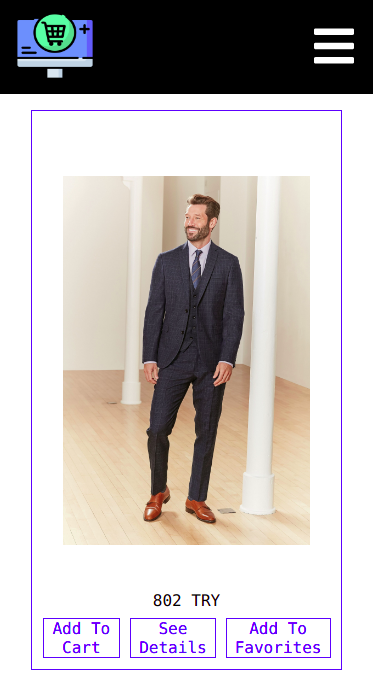
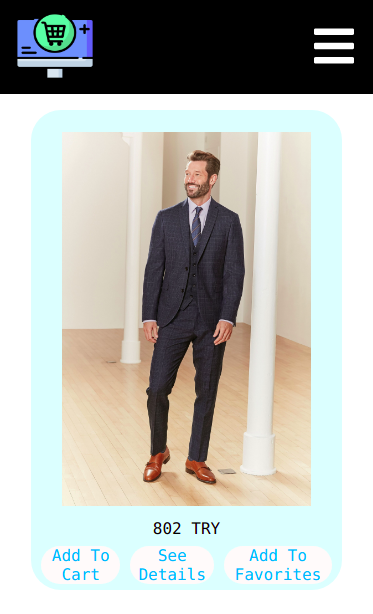
change styling design

diff --git a/src/components/DetailItem.js b/src/components/DetailItem.js
@@ -69,7 +69,8 @@ const DetailProductBox = styled.div`
   justify-content: space-evenly ;
   align-items: center;
   flex-direction: row;
-  border: blue solid 2px;
+  background-color: lightcyan;
+  border-radius: 4rem;
 
  
   @media screen and (max-width:650px){
@@ -77,6 +78,8 @@ const DetailProductBox = styled.div`
   }
   @media screen and (max-width:650px){
     height: 85vh;
+    border-radius: 1rem;
+    margin: 0;
   }
 `;
 const CartProductImage = styled.img`
@@ -116,8 +119,8 @@ const DetailInfoProduct = styled.text`
   @media screen and (max-width:650px) {
     padding: 0 1rem;  font-size: 1rem;
   }
-  @media screen and (max-width:650px) {
-    padding: 0 1rem;  font-size: 1rem;
+  @media screen and (max-width:400px) {
+    font-size: 0.75rem;
   }
 `;
 const DetailProductBar = styled.div`
@@ -128,12 +131,15 @@ const DetailProductBar = styled.div`
   @media screen and (max-width:1000px) and (min-width: 650px){
     flex-direction: column;
   }
+
 `;
 const InfoBar = styled.div`
   display: flex;
   justify-content: space-between;
   align-items: center;
   flex-direction: column;
+
+ 
 `;
 const BackHome = styled(Link)`
  
@@ -149,13 +155,14 @@ const DetailInfoButton = styled.text`
   font-size: 1.5rem;
   font-family: "Helvetica Neue",monospace;
   justify-content: space-between;
-  border: blue 1px solid;
-  color: blue;
+  background-color: snow;
+  color: deepskyblue;
+  border-radius:10rem;
   :hover{
     transition: 0.1s;
-    color: deeppink;
-    border-color: deeppink;
-    cursor: ${({ link }) => (link ? 'pointer' : 'default')};
+    color: blue;
+    cursor: pointer;
+    background-color: #5cf0ff;
   }
   @media screen and (max-width:1000px){
     font-size: 1.5rem;
@@ -163,7 +170,7 @@ const DetailInfoButton = styled.text`
   @media screen and (max-width:650px) {
     padding: 0 1rem;  font-size: 1rem;
   }
-  @media screen and (max-width:650px) {
-    padding: 0 1rem;  font-size: 1rem;
+  @media screen and (max-width:400px) {
+    padding: 0 1rem;  font-size: 0.75rem;
   }
 `;

diff --git a/src/components/ProductItem.js b/src/components/ProductItem.js
@@ -50,8 +50,8 @@ const ProductCart = styled.div`
   justify-content: center;
   align-items: center;
   flex-direction: column;
-
-  border: 1.5px solid ${({favorite}) => favorite ? `deeppink` : `blue`};
+  border-radius: 30px;
+  background-color: ${({favorite}) => favorite ? `deepskyblue`: `lightcyan` };
   color: deepskyblue;
 `;
 const ProductImage = styled.img`
@@ -71,14 +71,15 @@ const InfoProduct = styled.text`
   font-size: 20px;
   font-family: "Helvetica Neue",monospace;
   justify-content: space-between;
-  border: blue 1px solid;
-  color: blue;
+  background-color: snow;
+  margin-bottom:5px;
+  border-radius:10rem;
+  
   :hover{
-    transition: 0.2s;
-    color: deeppink;
+    transition: 0.1s;
+    color: blue;
     cursor: pointer;
-    border: deeppink 1px solid;
-
+    background-color: #5cf0ff;
   }
   @media screen and (max-width: 1300px){
     font-size: 1rem;
@@ -106,28 +107,25 @@ const ProductPrice = styled.text`
   }
 `;
 const ShowingDetails = styled(Link)`
-  color: blue;
   display: flex;
   padding: 0.5rem;
-  margin: 0px 10px;
+  margin: 0 10px 5px 10px;
   font-size: 20px;
   font-family: "Helvetica Neue",monospace;
   justify-content: space-between;
-  border: blue 1px solid;
-  
-
+  background-color: snow;
+  border-radius:10rem;
+  color: deepskyblue;
   
   :hover{
-    transition: 0.2s;
-    color: deeppink;
+    transition: 0.1s;
+    color: blue;
     cursor: pointer;
-    border: deeppink 1px solid;
-  } /* blue colors for links too */
+    background-color: #5cf0ff;
+  }
   text-decoration: inherit; /* no underline */
   @media screen and (max-width: 1300px){
     font-size: 1rem;
     padding: 0 0.5rem;
   }
-  border: blue 1px solid;
-
 `;

diff --git a/src/components/NavBar.js b/src/components/NavBar.js
@@ -29,9 +29,10 @@ const NavBar = () => {
       </NavMenu>
 
       <NavLink to="/card" active="true">
-        <ProductCardText>
-          {productsInCard.length !== 0 ? `Total Payment :  ${calculateTotalPayment()}` : null}
-        </ProductCardText>
+
+          {productsInCard.length !== 0 ? <ProductCardText>
+              {`Total Payment :  ${calculateTotalPayment()} TRY`}
+          </ProductCardText> : null}
         <img alt="logo" src={shoppingCart} width="80px" height="80%" />
 
       </NavLink>
@@ -89,16 +90,25 @@ const Bars = styled(FaBars)`
 `;
 const ProductCardText = styled.h1`
     font-size: 24px;
-    color: red;
+    color: royalblue;
     padding: 1rem;
+  
   text-align: center;
   align-items: center;
   transition: 2s;
+  margin-right: 10px; 
   animation-name: example;
-  animation-duration: 5s;
+  animation-duration: 2s;
   cursor: default;
+  border-radius: 10rem;
+  background-color: lightblue;
   @keyframes example {
-    from {color: white;}
-    to {color: red;}
+    from {color: red;}
+    to {color: royalblue;}
+  }
+  @media screen and (max-width: 1500px){
+    font-size: 15px;
+    padding: 0.2rem;
+    width: 6rem;
   }
 `;

diff --git a/src/components/CardItem.js b/src/components/CardItem.js
@@ -90,7 +90,8 @@ const CardBox = styled.div`
   justify-content: space-between;
   align-items: center;
   flex-direction: row;
-  border: blue solid 2px;
+  background-color: lightcyan;
+  border-radius: 4rem;
   margin: 20px 0px;
   @media screen and (max-width: 425px){
     height: 20rem;
@@ -178,16 +179,21 @@ const ShowDetails = styled(Link)`
   padding: 1rem 1rem;
   font-size: 20px;
   font-family: "Fira Code Medium",monospace;
-  color: red;
-  border: red solid 1px;
   margin: 10px;
+  background-color: lightpink;
+  
   &.active {
     color:aquamarine ;
 
   }
-  :hover {
+  border-radius:10rem;
+  color: black;
+
+  :hover{
+    transition: 0.1s;
     color: blue;
-    border-color: blue;
+    cursor: pointer;
+    background-color: #5cf0ff;
   }
   transition: all 0.2s ease-in-out;
   @media screen and (min-width: 600px){

diff --git a/src/pages/ShoppingCard.js b/src/pages/ShoppingCard.js
@@ -56,8 +56,12 @@ const TotalPayment = styled.div`
   font-size:60px;
   align-items:center;
   text-align:center;
-  border: darkblue 3px solid;
- 
+  background-color: lightcyan;
+  border-radius: 100rem;
+  margin-top: 5px;
+  @media screen and (max-width: 600px){
+    border-radius: 3rem;
+  }
 `;
 const TotalPaymentText = styled.text`
   font-size: 40px;

diff --git a/src/components/Loader.js b/src/components/Loader.js
@@ -7,7 +7,7 @@ const Loader = () => {
       speed={2}
       width="100%"
       height="100%"
-      backgroundColor="#000000"
+      backgroundColor="#5cf0ff"
       foregroundColor="#878787"
     >
       <rect x="5" y="-3" rx="0" ry="0" width="100%" height="100%" />

diff --git a/src/pages/Products.js b/src/pages/Products.js
@@ -54,4 +54,7 @@ export const ProductsContainer = styled.div`
     grid-template-columns: repeat(1, 1fr);
     grid-auto-rows: 35rem;
   }
+  @media screen and (max-width: 600px){
+    grid-auto-rows: 30rem;
+  }
 `;
